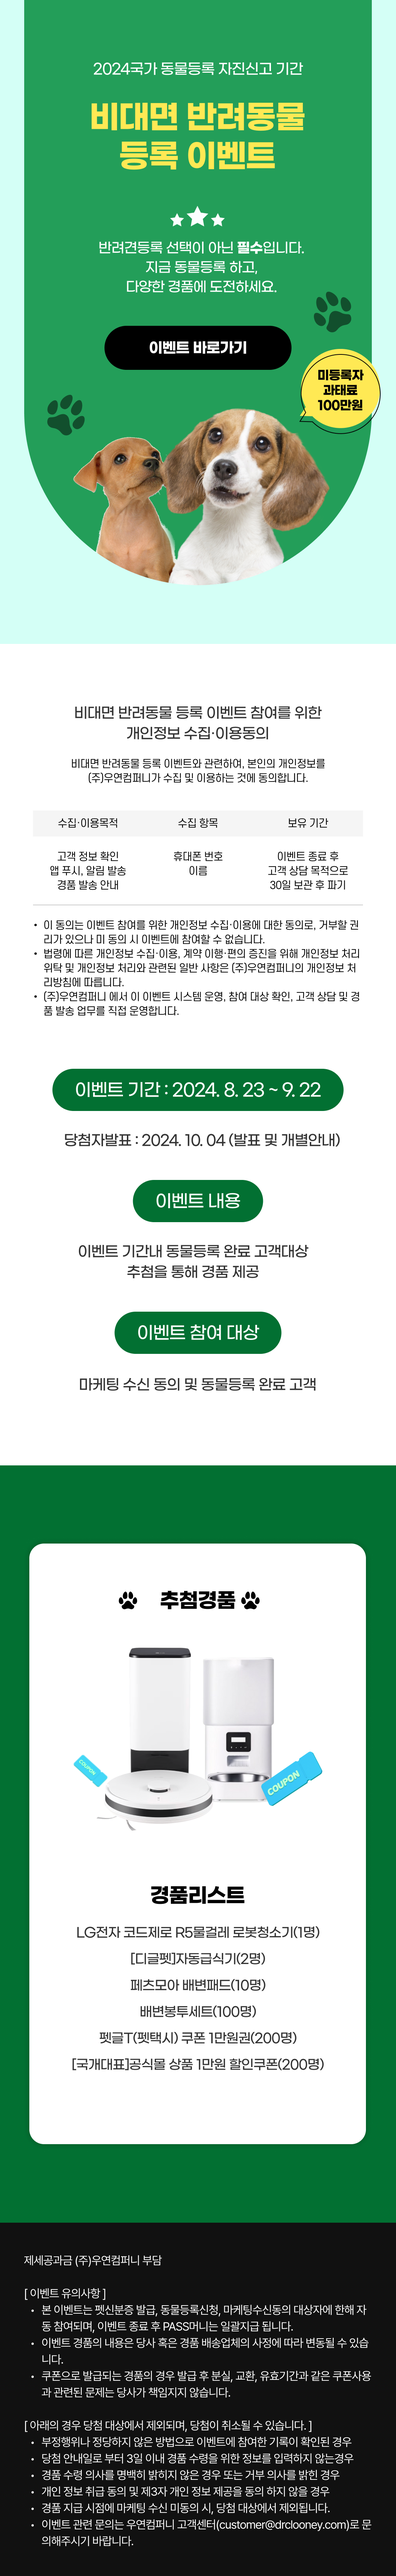
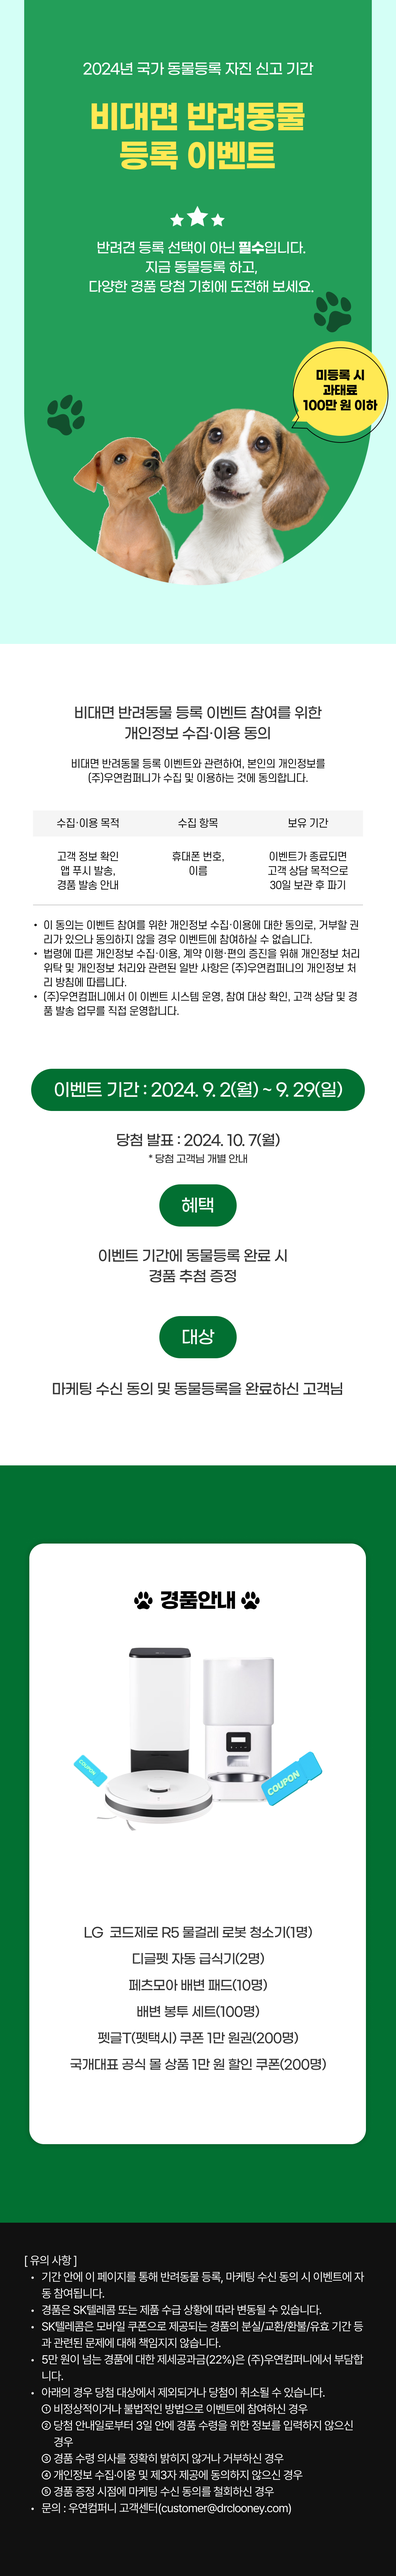
20240829 이벤트 페이지

diff --git a/resources/assets/event2.html b/resources/assets/event2.html
@@ -29,7 +29,17 @@
         <main>
             <section class="event">
                 <img src="img/event/20240820_event.png" alt="">
-                <a href="https://www.naver.com/" class="event-button"></a>
+                <div class="fixed">
+                    <h1>휴대폰번호  입력하고 이벤트 참여하기</h1>
+                    <div class="input-group">
+                        <input type="text" placeholder="010-1234-5678">
+                        <button type="button" class="btn btn-md btn-green">참여하기</button>
+                    </div>
+                    <div class="check-group red-circle">
+                        <input type="checkbox" id="check01">
+                        <label for="check01">개인정보 수집·이용에 동의합니다.</label>
+                    </div>
+                </div>
             </section>
         </main>
         <!-- END : Content -->

diff --git a/resources/assets/css/styles.css b/resources/assets/css/styles.css
@@ -1305,6 +1305,7 @@ hr.line {
  * EVENT
  * **************************************** */
 .event img {
+    margin: 0 0 148px 0;
     width: 100%;
 }
 
@@ -1318,6 +1319,37 @@ hr.line {
     background-color: rgba(255, 255, 255, 0);
     border: 2px solid transparent;
     cursor: pointer;
+}
+
+.event .fixed {
+    background: var(--pass-black-02);
+    bottom: 0;
+    display: flex;
+    flex-direction: column;
+    gap: 8px;
+    position: fixed;
+    padding: 20px;
+    width: 100%;
+}
+
+.event h1 {
+    color: var(--pass-write);
+    font-size: 18px;
+    font-weight: 600;
+}
+
+.event .input-group {
+    flex-direction: row;
+}
+
+.event .btn-green {
+    background: var(--dr-green);
+    color: var(--pass-write);
+    width: 100px;
+}
+
+.event .check-group label {
+    color: var(--pass-write);
 }
 
 /* **************************************** *
